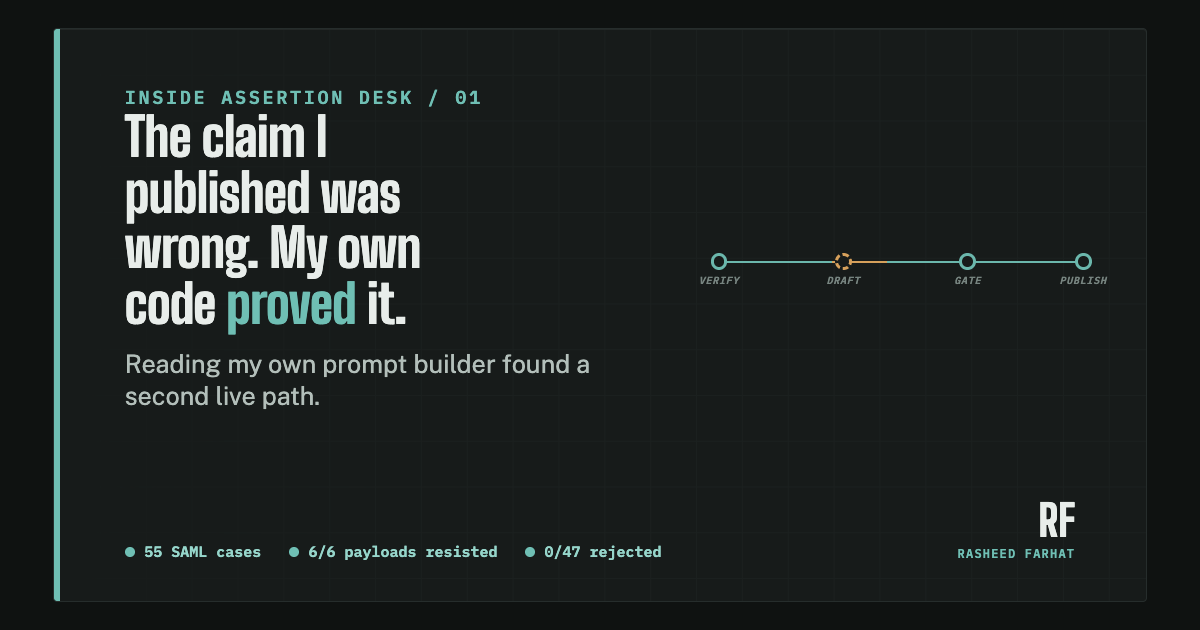
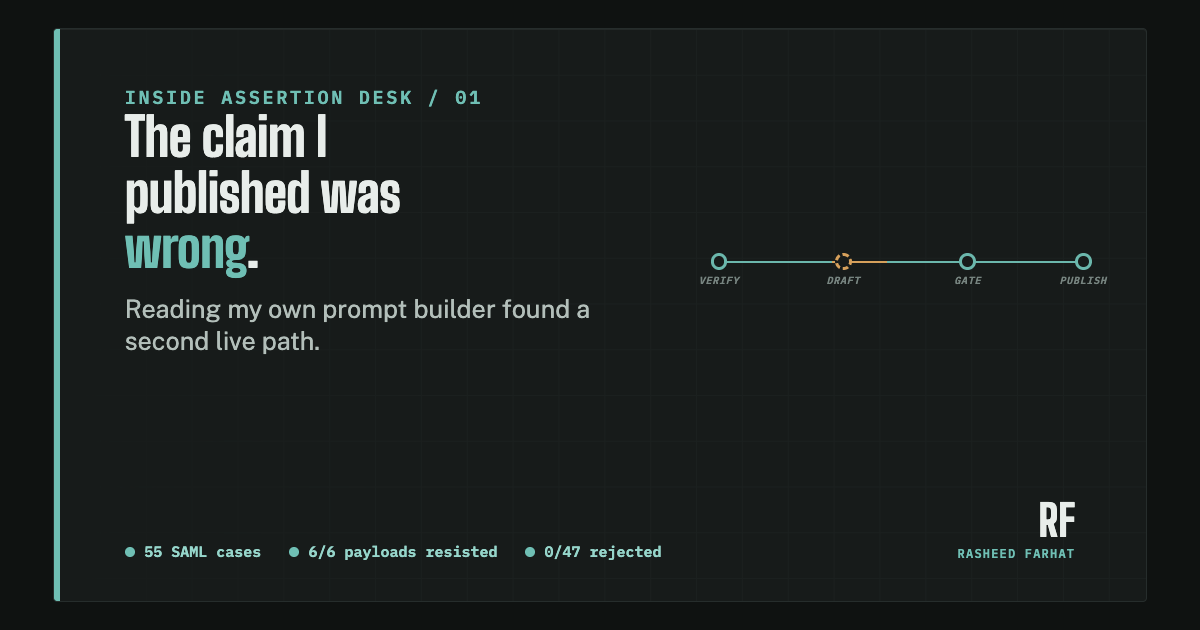
Simplify article one headline, trim IdP scope-note
Drop "My Own Code Proved It." from the headline everywhere it
appears (h1, JSON-LD headline, writing index card, social card
image) so it reads as a single clean sentence instead of two,
matching the already-simple title/og:title/twitter:title.

Also trim "not Entra, Okta, or Ping" from the Assertion Desk
project-page scope-note; "not a claim of production SSO experience"
already covers the honesty requirement without listing competitors.

Changed region(s): [[0.0925, 0.3619, 0.4933, 0.6635]]

diff --git a/writing/the-claim-i-published-was-wrong/index.html b/writing/the-claim-i-published-was-wrong/index.html
@@ -33,7 +33,7 @@
       {
         "@context": "https://schema.org",
         "@type": "TechArticle",
-        "headline": "The Claim I Published Was Wrong. My Own Code Proved It.",
+        "headline": "The Claim I Published Was Wrong.",
         "description": "My own limitations file said injection resistance rested on one live path into a model prompt. Reading the code that builds that prompt found a second one, and I had to correct my own claim.",
         "datePublished": "2026-08-23T09:00:00+03:00",
         "dateModified": "2026-08-23T09:00:00+03:00",
@@ -68,7 +68,7 @@
         <header class="article-hero shell">
           <nav class="breadcrumb" aria-label="Breadcrumb"><a href="/writing/">Writing</a><span aria-hidden="true">/</span><span>Inside Assertion Desk, part 1</span></nav>
           <p class="series-kicker">Inside Assertion Desk <span>Part 1 of 2</span></p>
-          <h1>The Claim I Published Was Wrong. My Own Code <span class="article-title__signal">Proved</span> It.</h1>
+          <h1>The Claim I Published Was <span class="article-title__signal">Wrong</span>.</h1>
           <p class="article-hero__dek">My own limitations file said injection resistance rested on one live path into a model prompt. Reading the code that builds that prompt found a second one it was never scanning.</p>
           <dl class="article-meta">
             <div><dt>Written by</dt><dd>Rasheed Farhat</dd></div>

diff --git a/projects/assertion-desk/index.html b/projects/assertion-desk/index.html
@@ -132,13 +132,12 @@
               <div class="scope-note">
                 <strong>Scope</strong>
                 <p>
-                  The identity provider is Keycloak, not Entra, Okta, or
-                  Ping. The 56-case corpus comes from faults injected into a
-                  live SAML exchange, not hand-authored ground truth, but the
-                  customer narratives attached to each case are authored
-                  text standing in for real tickets. This is a synthetic
-                  lab, not a production support system or a claim of
-                  production SSO experience.
+                  The identity provider is Keycloak. The 56-case corpus
+                  comes from faults injected into a live SAML exchange, not
+                  hand-authored ground truth, but the customer narratives
+                  attached to each case are authored text standing in for
+                  real tickets. This is a synthetic lab, not a production
+                  support system or a claim of production SSO experience.
                 </p>
               </div>
               <div class="action-row">

diff --git a/writing/index.html b/writing/index.html
@@ -115,7 +115,7 @@
               <span class="venue">Inside Assertion Desk 1/2</span>
             </div>
             <div>
-              <h3><a href="/writing/the-claim-i-published-was-wrong/">The Claim I Published Was Wrong. My Own Code Proved It.</a></h3>
+              <h3><a href="/writing/the-claim-i-published-was-wrong/">The Claim I Published Was Wrong.</a></h3>
               <p>
                 My own limitations file said injection resistance rested on
                 one live path into a model prompt. Reading the code that

diff --git a/scripts/writing-card-source.html b/scripts/writing-card-source.html
@@ -104,9 +104,9 @@
     },
     "4": {
       kicker: "Inside Assertion Desk / 01",
-      titleBefore: "The claim I published was wrong. My own code ",
-      titleSignal: "proved",
-      titleAfter: " it.",
+      titleBefore: "The claim I published was ",
+      titleSignal: "wrong",
+      titleAfter: ".",
       support: "Reading my own prompt builder found a second live path.",
       proof: ["55 SAML cases", "6/6 payloads resisted", "0/47 rejected"]
     },
